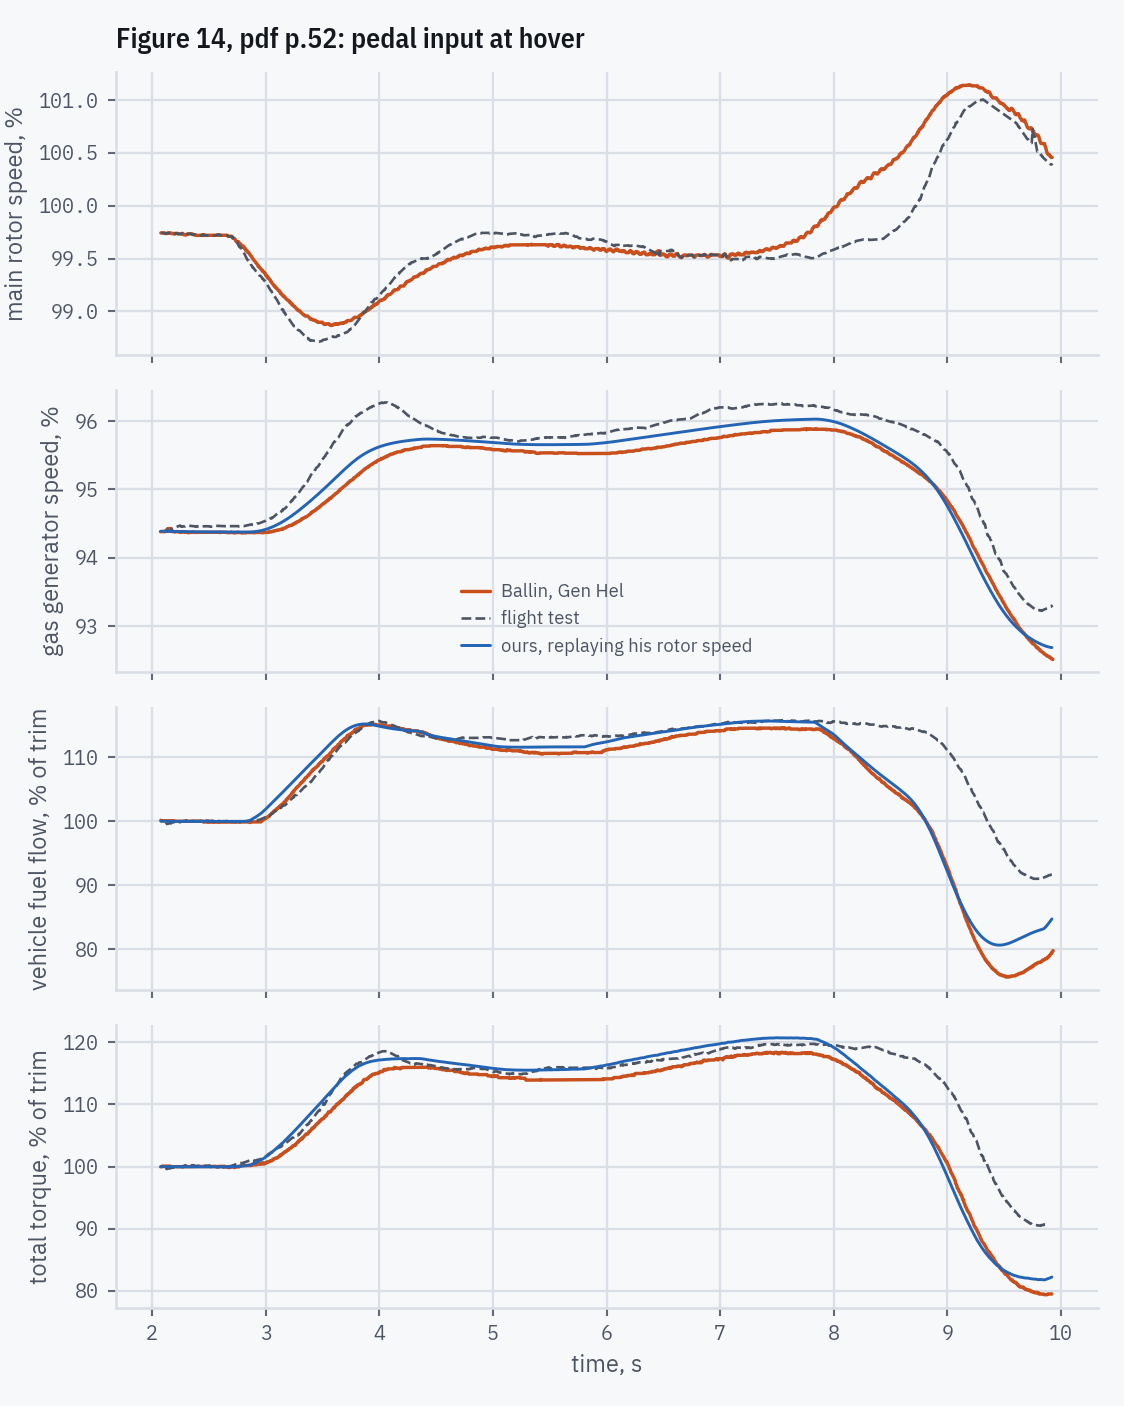
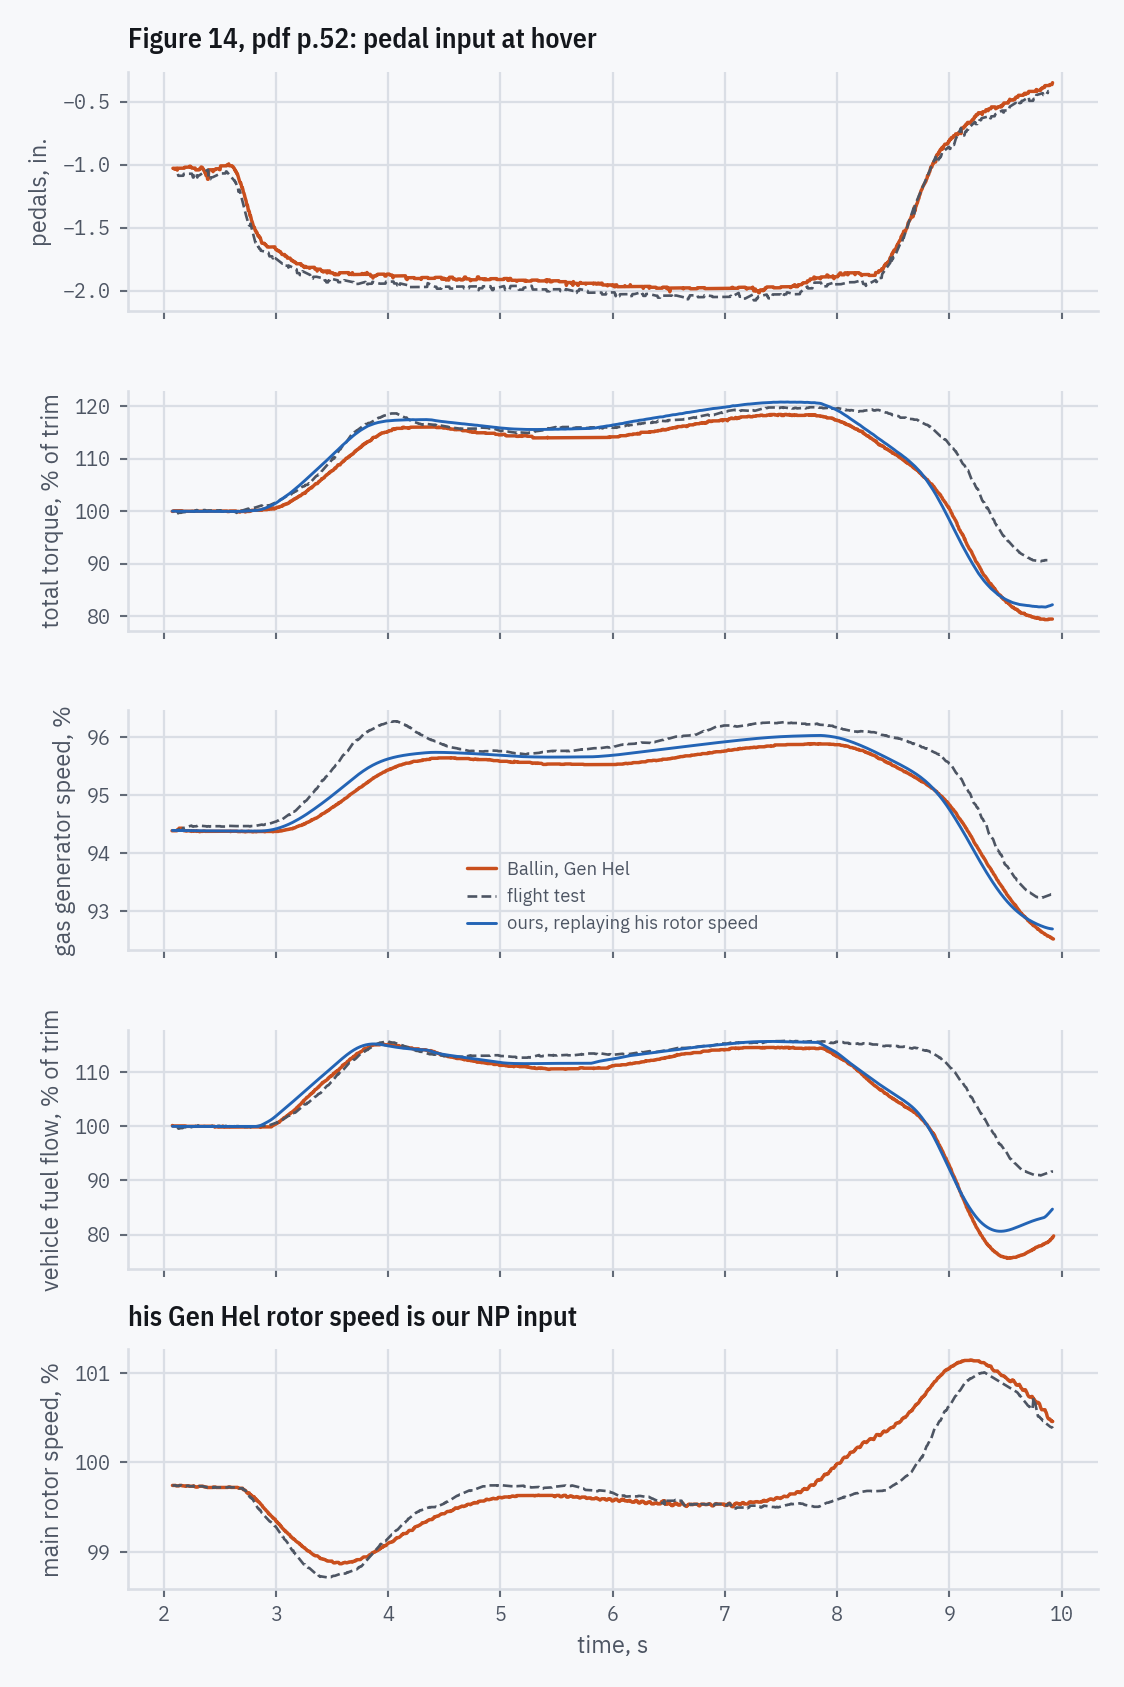
figure 14 plot: ballin's pedal panel back, in his panel order
The pedal is Figure 14's input and has no path into our engine or fuel
control (the HMU reads the collective, not the pedals): it reaches the
engine only through the rotor speed we replay. So its panel carries his two
lines and no curve of ours. The panels now follow his order: pedals,
torque, NG, fuel, rotor speed. No number moves.

Claude-Session: https://claude.ai/code/session_01RjvrKad8gE6F4A3xardmyd

diff --git a/validation/report.py b/validation/report.py
@@ -895,12 +895,13 @@ def figure_14() -> dict:
         "rms vs flight test": {k: f14.rms(f14.gap(k, "test")) for k in f14.PANELS},
         "rms with np held": {k: f14.rms(f14.gap(k, np_held=True)) for k in f14.PANELS},
     }
-    fig, axes = plt.subplots(4, 1, figsize=fs(8.0, 10.0), sharex=True)
+    fig, axes = plt.subplots(5, 1, figsize=fs(8.0, 12.0), sharex=True)
     rows = (
-        ("nr", "main rotor speed, %", "Figure 14, pdf p.52: pedal input at hover"),
+        ("pedals", "pedals, in.", "Figure 14, pdf p.52: pedal input at hover"),
+        ("torque", "total torque, % of trim", ""),
         ("ng", "gas generator speed, %", ""),
         ("fuel", "vehicle fuel flow, % of trim", ""),
-        ("torque", "total torque, % of trim", ""),
+        ("nr", "main rotor speed, %", "his Gen Hel rotor speed is our NP input"),
     )
     for ax, (key, ylabel, title) in zip(axes, rows, strict=True):
         for line, sty, colr, lab in (
@@ -911,10 +912,10 @@ def figure_14() -> dict:
             if key in ("fuel", "torque"):
                 v = 100.0 * v / f14.his_trim(key, line)
             ax.plot(t, v, sty, color=colr, lw=1.3 if line == "gen_hel" else 1.0, label=lab)
-        if key != "nr":
+        if key in f14.PANELS:
             t, v = f14.ours(key)
             ax.plot(t, v, "-", color=OURS, lw=1.1, label="ours, replaying his rotor speed")
-        _style(ax, "time, s" if key == "torque" else "", ylabel, title)
+        _style(ax, "time, s" if key == "nr" else "", ylabel, title)
         if key == "ng":
             ax.legend(frameon=False, fontsize=7, labelcolor=MUTED, loc="lower center")
     fig.tight_layout()
